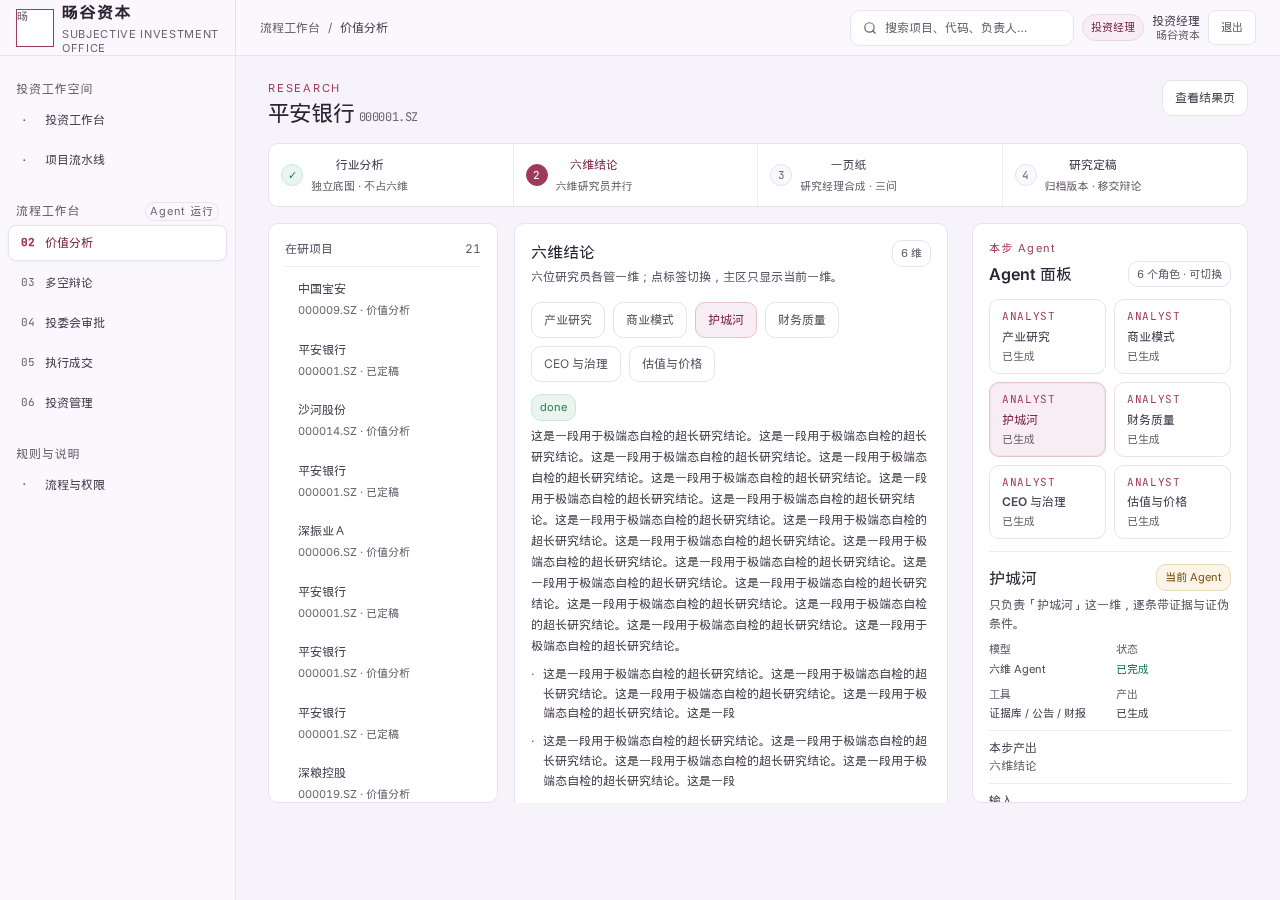
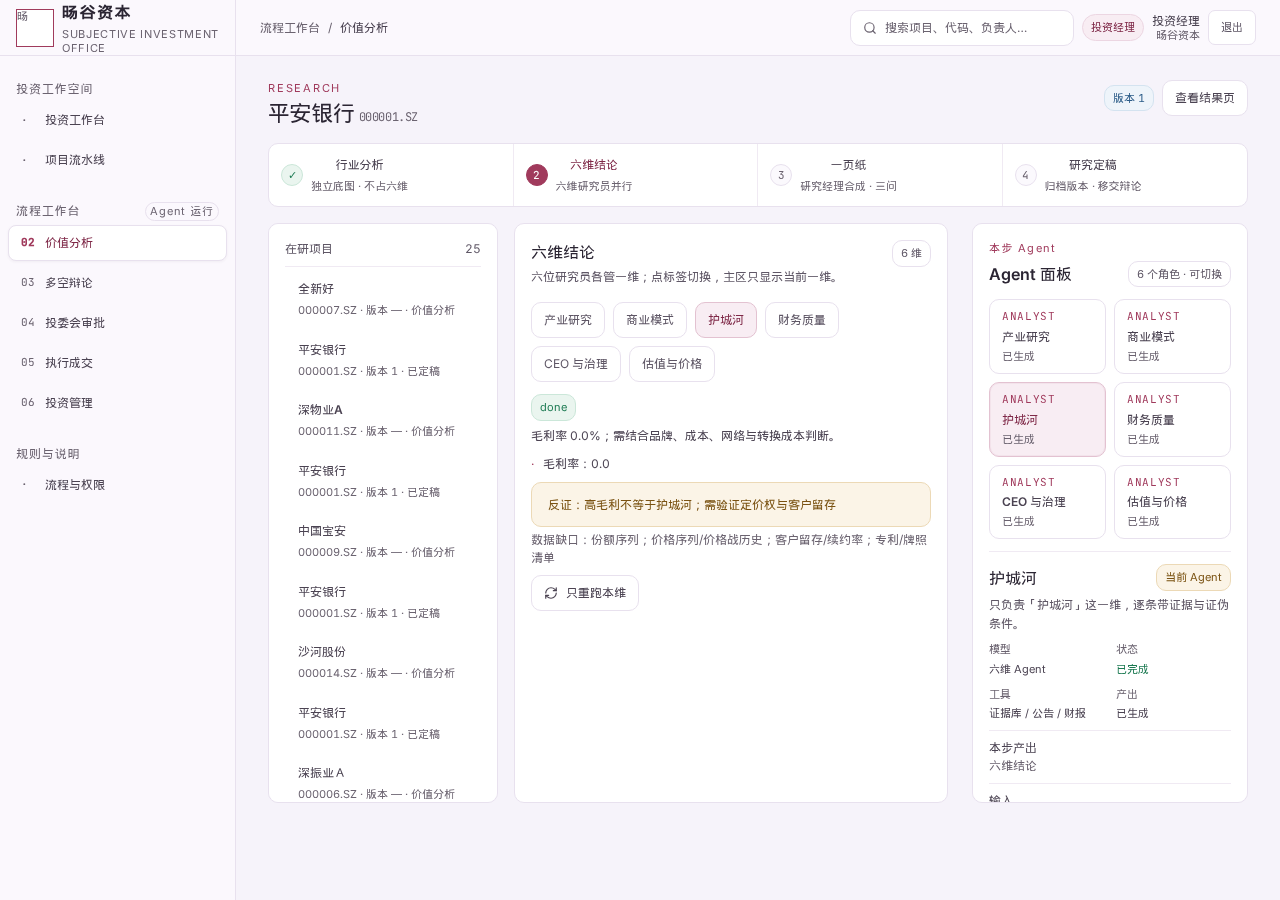
feat(inst): 研究版本提示
- 项目流水线卡片/工作台页头/左侧切换列表显示版本 N
- 持仓详情按最近议案版本回填版本号
- 更新三档与极端态截图

diff --git a/frontend/src/pages/institution/v3/InstV3DashboardPage.tsx b/frontend/src/pages/institution/v3/InstV3DashboardPage.tsx
@@ -40,13 +40,13 @@ export function InstV3DashboardPage() {
     if (!pipeline) return [];
     const items = [
       ...(pipeline.stages[3]?.items || []).slice(0, 3).map((x) => ({
-        key: x.key, name: x.company_name || x.symbol || "—", stage: "投委会审批", note: `${x.stage_name} · ${x.gate}`, tone: "gold",
+        key: x.key, name: x.company_name || x.symbol || "—", stage: "投委会审批", note: `${x.stage_name} · ${x.gate} · 版本 ${x.version_no ?? "—"}`, tone: "gold",
       })),
       ...(pipeline.stages[1]?.items || []).slice(0, 1).map((x) => ({
-        key: x.key, name: x.company_name || x.symbol || "—", stage: "价值分析", note: `${x.stage_name} · ${x.gate}`, tone: "info",
+        key: x.key, name: x.company_name || x.symbol || "—", stage: "价值分析", note: `${x.stage_name} · ${x.gate} · 版本 ${x.version_no ?? "—"}`, tone: "info",
       })),
       ...(pipeline.stages[4]?.items || []).slice(0, 1).map((x) => ({
-        key: x.key, name: x.company_name || x.symbol || "—", stage: "执行成交", note: `${x.stage_name} · ${x.gate}`, tone: "violet",
+        key: x.key, name: x.company_name || x.symbol || "—", stage: "执行成交", note: `${x.stage_name} · ${x.gate} · 版本 ${x.version_no ?? "—"}`, tone: "violet",
       })),
     ];
     return dedupeBy(items, (x) => x.key).slice(0, 4);
@@ -120,7 +120,7 @@ export function InstV3DashboardPage() {
                 <span className="flex h-7 w-7 items-center justify-center rounded bg-[#f8edf3] text-[11px] font-semibold text-[#a03a5c]">{(p.company_name || p.symbol || "?").slice(0, 1)}</span>
                 <span className="min-w-0 flex-1">
                   <b className="block text-[12px] font-medium text-[#2b2533]">{p.company_name || p.symbol}</b>
-                  <span className="block text-[11px] text-[#6b6370]">{p.stage_name} · {p.gate} · {p.symbol}</span>
+                  <span className="block text-[11px] text-[#6b6370]">{p.stage_name} · {p.gate} · {p.symbol} · 版本 {p.version_no ?? "—"}</span>
                 </span>
                 <span className="v3-chip">{p.stage_name}</span>
               </Link>

diff --git a/frontend/src/pages/institution/v3/InstV3DebatePage.tsx b/frontend/src/pages/institution/v3/InstV3DebatePage.tsx
@@ -54,6 +54,8 @@ type CaseItem = {
   company_name: string;
   industry?: string;
   ref_price?: number;
+  version_no?: number | null;
+  version_status?: string | null;
   versions?: Version[];
   debates?: Array<{ id: number; status: string; conclusion?: string }>;
   proposals?: Proposal[];
@@ -307,7 +309,10 @@ export function InstV3DebatePage() {
           <div className="v3-eyebrow">DEBATE</div>
           <h1>{detail.company_name} · 多空辩论 <span className="font-mono text-[12px] font-normal text-[#6b6370]">{detail.symbol}</span></h1>
         </div>
-        <Link className="v3-btn ghost" to={`/inst/pipeline/result?key=${encodeURIComponent(`case:${detail.id}`)}`}>查看结果页</Link>
+        <div className="flex flex-wrap items-center gap-2">
+          <span className="v3-chip info">版本 {version?.version_no ?? detail.version_no ?? "—"}</span>
+          <Link className="v3-btn ghost" to={`/inst/pipeline/result?key=${encodeURIComponent(`case:${detail.id}`)}`}>查看结果页</Link>
+        </div>
       </div>
 
       <div className="v3-stepper">
@@ -325,7 +330,7 @@ export function InstV3DebatePage() {
           {cases.map((c) => (
             <button key={c.id} className={`pl-item${c.id === detail.id ? " on" : ""}`} onClick={() => selectCase(c.id)}>
               <b>{c.company_name}</b>
-              <span>{c.symbol} · {c.proposals?.[0]?.status || (c.debates?.[0] ? "辩论完成" : "待辩论")}</span>
+              <span>{c.symbol} · 版本 {c.version_no ?? c.versions?.[0]?.version_no ?? "—"} · {c.proposals?.[0]?.status || (c.debates?.[0] ? "辩论完成" : "待辩论")}</span>
             </button>
           ))}
           {!cases.length ? <div className="v3-empty" style={{ padding: "16px" }}>暂无可辩论项目</div> : null}

diff --git a/frontend/src/pages/institution/v3/InstV3ResearchPage.tsx b/frontend/src/pages/institution/v3/InstV3ResearchPage.tsx
@@ -73,6 +73,8 @@ type CaseItem = {
   industry?: string;
   data_status?: string;
   ref_price?: number;
+  version_no?: number | null;
+  version_status?: string | null;
   versions?: Version[];
 };
 
@@ -314,7 +316,10 @@ export function InstV3ResearchPage() {
           <div className="v3-eyebrow">RESEARCH</div>
           <h1>{detail.company_name} <span className="font-mono text-[12px] font-normal text-[#6b6370]">{detail.symbol}</span></h1>
         </div>
-        <Link className="v3-btn ghost" to={`/inst/pipeline/result?key=${encodeURIComponent(`case:${detail.id}`)}`}>查看结果页</Link>
+        <div className="flex flex-wrap items-center gap-2">
+          <span className="v3-chip info">版本 {version?.version_no ?? detail.version_no ?? "—"}</span>
+          <Link className="v3-btn ghost" to={`/inst/pipeline/result?key=${encodeURIComponent(`case:${detail.id}`)}`}>查看结果页</Link>
+        </div>
       </div>
 
       <div className="v3-stepper">
@@ -332,7 +337,7 @@ export function InstV3ResearchPage() {
           {cases.map((c) => (
             <button key={c.id} className={`pl-item${c.id === detail.id ? " on" : ""}`} onClick={() => selectCase(c.id)}>
               <b>{c.company_name}</b>
-              <span>{c.symbol} · {c.stage_no === 2 ? "已定稿" : "价值分析"}</span>
+              <span>{c.symbol} · 版本 {c.version_no ?? "—"} · {c.stage_no === 2 ? "已定稿" : "价值分析"}</span>
             </button>
           ))}
           {!cases.length ? <div className="v3-empty" style={{ padding: "16px" }}>暂无在研项目</div> : null}

diff --git a/frontend/src/pages/institution/v3/InstV3ApprovalsPage.tsx b/frontend/src/pages/institution/v3/InstV3ApprovalsPage.tsx
@@ -362,7 +362,10 @@ export function InstV3ApprovalsPage() {
           <div className="v3-eyebrow">DECISION</div>
           <h1>投委会审批</h1>
         </div>
-        <span className="v3-chip info">{session.role_label_cn}</span>
+        <div className="flex flex-wrap items-center gap-2">
+          <span className="v3-chip info">版本 {detail?.current_version?.version_no ?? detail?.current_version_no ?? detail?.version_no ?? "—"}</span>
+          <span className="v3-chip info">{session.role_label_cn}</span>
+        </div>
       </div>
 
       <div className="v3-stepper">
@@ -380,7 +383,7 @@ export function InstV3ApprovalsPage() {
           {items.map((p) => (
             <button key={p.id} className={`pl-item${p.id === detail?.id ? " on" : ""}`} onClick={() => selectProposal(p.id)}>
               <b>{p.company_name}</b>
-              <span>{p.symbol} · {p.direction} {fmtPct(p.target_weight)} · {p.status}</span>
+              <span>{p.symbol} · 版本 {p.current_version_no || p.version_no || "—"} · {p.direction} {fmtPct(p.target_weight)} · {p.status}</span>
             </button>
           ))}
           {!items.length ? <div className="v3-empty" style={{ padding: "16px" }}>当前没有待你处理的议案。</div> : null}

diff --git a/frontend/src/pages/institution/v3/InstV3ExecutePage.tsx b/frontend/src/pages/institution/v3/InstV3ExecutePage.tsx
@@ -181,7 +181,10 @@ export function InstV3ExecutePage() {
           <div className="v3-eyebrow">EXECUTION</div>
           <h1>执行成交</h1>
         </div>
-        <span className="v3-chip info">{session.role_label_cn} · {canExecute ? "可执行" : "只读"}</span>
+        <div className="flex flex-wrap items-center gap-2">
+          <span className="v3-chip info">版本 {selected?.version_no || "—"}</span>
+          <span className="v3-chip info">{session.role_label_cn} · {canExecute ? "可执行" : "只读"}</span>
+        </div>
       </div>
 
       <div className="v3-stepper">
@@ -199,7 +202,7 @@ export function InstV3ExecutePage() {
           {items.map((a) => (
             <button key={a.id} className={`pl-item${a.id === selected?.id ? " on" : ""}`} onClick={() => selectAuth(a)}>
               <b>{a.company_name || a.symbol}</b>
-              <span>#{a.id} · {a.status} · v{a.version_no || "—"}</span>
+              <span>#{a.id} · 版本 {a.version_no || "—"} · {a.status}</span>
             </button>
           ))}
           {!items.length ? <div className="v3-empty" style={{ padding: "16px" }}>暂无授权。三关审批通过后生成 AUTH。</div> : null}

diff --git a/frontend/src/pages/institution/v3/InstV3ProjectResultPage.tsx b/frontend/src/pages/institution/v3/InstV3ProjectResultPage.tsx
@@ -68,9 +68,12 @@ export function InstV3ProjectResultPage() {
           <Link className="v3-eyebrow inline-flex items-center gap-1" to="/inst/pipeline"><ArrowLeft className="h-3 w-3" />返回项目流水线</Link>
           <h1>{title} <span className="font-mono text-[12px] font-normal text-[#6b6370]">{symbol}</span></h1>
         </div>
-        <Link className="v3-btn primary" to={stageLink(key, stageNo)}>
+        <div className="flex flex-wrap items-center gap-2">
+          <span className="v3-chip info">版本 {(version as Record<string, unknown>).version_no as number ?? "—"}</span>
+          <Link className="v3-btn primary" to={stageLink(key, stageNo)}>
           进入{stageNo === 0 ? "价值分析" : STAGES[Math.min(5, Math.max(0, stageNo))].name}工作台 <ArrowRight className="h-3.5 w-3.5" />
-        </Link>
+          </Link>
+        </div>
       </div>
 
       <div className="v3-stepper">

diff --git a/frontend/src/pages/institution/v3/InstV3ManagePage.tsx b/frontend/src/pages/institution/v3/InstV3ManagePage.tsx
@@ -56,6 +56,7 @@ type ExitCase = {
 
 type Holding = {
   symbol: string;
+  version_no?: number | null;
   position: Position;
   theses: Thesis[];
   events: MonitorEvent[];
@@ -241,7 +242,10 @@ export function InstV3ManagePage() {
           <div className="v3-eyebrow">OWNERSHIP</div>
           <h1>投资管理</h1>
         </div>
-        <span className="v3-chip info">{session.role_label_cn}</span>
+        <div className="flex flex-wrap items-center gap-2">
+          <span className="v3-chip info">版本 {holding?.version_no ?? "—"}</span>
+          <span className="v3-chip info">{session.role_label_cn}</span>
+        </div>
       </div>
 
       <div className="v3-stepper">

diff --git a/frontend/src/pages/institution/v3/InstV3PipelinePage.tsx b/frontend/src/pages/institution/v3/InstV3PipelinePage.tsx
@@ -8,7 +8,7 @@ function ProjectCard({ item }: { item: V3PipelineItem }) {
   const title = item.company_name || item.symbol || "—";
   return (
     <Link className="v3-project" to={`/inst/pipeline/result?key=${encodeURIComponent(item.key)}`}>
-      <span className="nm">{title}<span className="v3-chip gold">{item.stage_name}</span></span>
+      <span className="nm">{title}<span className="v3-chip gold">{item.stage_name}</span>{item.stage_no > 0 ? <span className="v3-chip">版本 {item.version_no ?? "—"}</span> : null}</span>
       <span className="cd">{item.symbol} {item.industry ? `· ${item.industry}` : ""}</span>
       <span className="ms">
         {item.stage_no === 0

diff --git a/backend/services/institution/inst_service.py b/backend/services/institution/inst_service.py
@@ -1252,9 +1252,27 @@ def holding_detail(org_id: int, symbol: str) -> dict[str, Any]:
         e for e in mon.get("exits") or []
         if int(e.get("company_id") or 0) == int(company_id or 0)
     ]
+    version_no = None
+    with get_conn() as conn:
+        row = conn.execute(
+            """
+            SELECT pv.version_no
+              FROM inst_proposal p
+              JOIN LATERAL (
+                SELECT version_no FROM inst_proposal_version
+                 WHERE proposal_id=p.id ORDER BY version_no DESC LIMIT 1
+              ) pv ON TRUE
+             WHERE p.org_id=%s AND p.company_id=%s
+             ORDER BY p.updated_at DESC LIMIT 1
+            """,
+            (org_id, company_id),
+        ).fetchone()
+        if row:
+            version_no = int(row["version_no"])
     return {
         "symbol": symbol,
         "company_id": company_id,
+        "version_no": version_no,
         "position": position,
         "events": events,
         "theses": theses,
@@ -5597,7 +5615,7 @@ def refresh_thesis(org_id: int, company_id: int, *, actor_member_id: int | None 
                 SELECT snapshot FROM inst_proposal_version
                  WHERE proposal_id=p.id ORDER BY version_no DESC LIMIT 1
               ) v ON TRUE
-             WHERE p.org_id=%s AND p.company_id=%s AND p.direction='buy'
+             WHERE p.org_id=%s AND p.company_id=%s
              ORDER BY p.updated_at DESC LIMIT 1
             """,
             (org_id, company_id),

diff --git a/docs/功能包/FEAT-034-机构端首版闭环/README.md b/docs/功能包/FEAT-034-机构端首版闭环/README.md
@@ -750,3 +750,10 @@ INST_E2E_ALLOW_WRITE=1 INST_E2E_EXPECT_DB=svquant_test \
 - **验收截图**：`docs/测试设计/evidence/inst-ui-production-20261109/`（1280/1440/1920、空态、超长文本、交叉质询、估值复核）及 `README.md` 清单。
 
 验证：pytest 107 passed；`tsc --noEmit`、`npm run build`、`npm run test:inst` 13 passed；Playwright `e2e-09..14` 17 passed。
+
+
+### 11.37 研究版本提示（2026-11-09）
+
+- 项目流水线卡片、项目结果页、价值分析/多空辩论/投委会审批/执行成交/投资管理的页面标题均显示当前研究/议案版本。
+- 各工作台左侧切换列表（研究案、辩论案、议案、授权）同步显示“版本 N”；同一股票的不同研究版本不再只靠名称区分。
+- 持仓详情按最近议案版本回填版本号；无版本时显示“—”，不编造。

diff --git a/docs/测试设计/evidence/inst-ui-production-20261109/README.md b/docs/测试设计/evidence/inst-ui-production-20261109/README.md
@@ -51,6 +51,7 @@
 - [x] 估值复核字段全部中文标签：估值方法、每股价值、关键假设、股权/企业价值、净债务桥、口径说明；隐藏 `is_demo`、内部 error 与原始 JSON。
 - [x] 交叉质询按 claim 分组，显示中文状态（已核验/部分核验/未核验/证据不足/证据矛盾）、证据编号与问题说明。
 - [x] 除首页外，所有页面大标题下不再显示解释性小字。
+- [x] 项目流水线卡片、各工作台大标题、左侧项目/议案/授权切换列表均显示“版本 N”，同一股票的不同研究版本可区分。
 
 ## 复现
 
